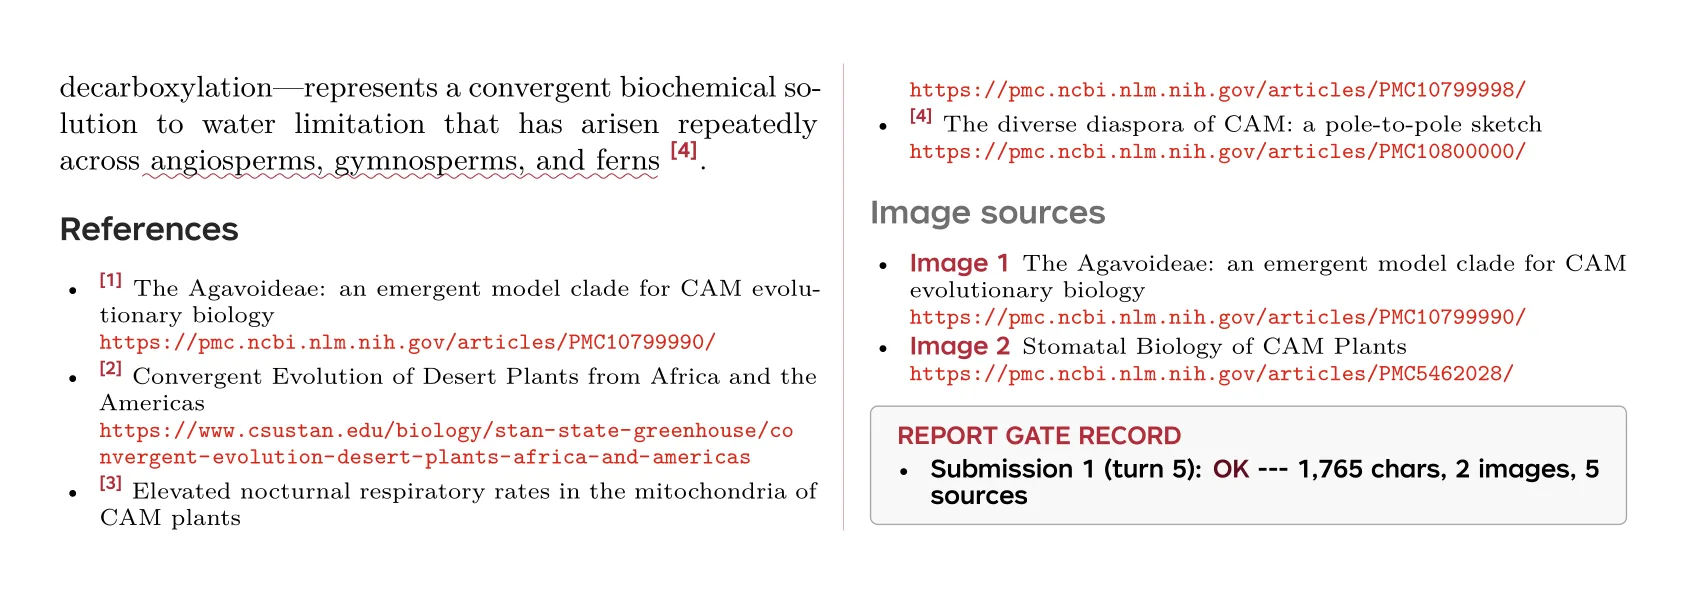
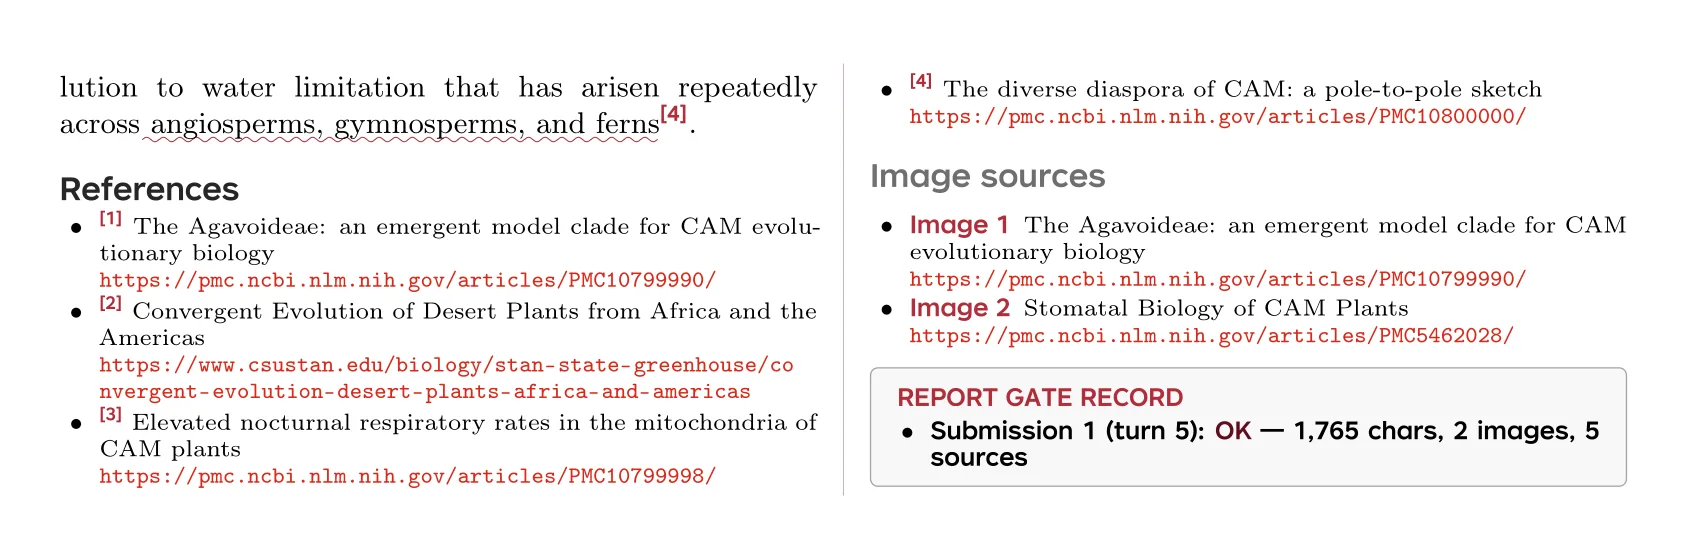
Refresh report pages from the final paper; build with pdfLaTeX
Re-export against the final sources (paper fonts, image heights, dashes, citations).
The export now uses pdfLaTeX like the paper, ragged columns, and content-hashed
image URLs so browsers pick up changed pages.

Changed region(s): [[0.0308, 0.1221, 0.4923, 0.8851], [0.4923, 0.3052, 0.9846, 0.8851], [0.5231, 0.1221, 0.9231, 0.2747]]

diff --git a/assets/reports/manifest.js b/assets/reports/manifest.js
@@ -1,85 +1,90 @@
 window.MIRA_REPORTS = {
  "cam_concise": [
   {
-   "src": "assets/reports/cam_concise/01.webp",
+   "src": "assets/reports/cam_concise/01.webp?v=6a26c0a7",
    "w": 1700,
    "h": 2274
   },
   {
-   "src": "assets/reports/cam_concise/02.webp",
+   "src": "assets/reports/cam_concise/02.webp?v=e6f3c707",
    "w": 1690,
-   "h": 594
+   "h": 557
   }
  ],
  "cam_detail": [
   {
-   "src": "assets/reports/cam_detail/01.webp",
+   "src": "assets/reports/cam_detail/01.webp?v=7eaeee08",
    "w": 1700,
    "h": 2274
   },
   {
-   "src": "assets/reports/cam_detail/02.webp",
+   "src": "assets/reports/cam_detail/02.webp?v=7838786a",
    "w": 1700,
    "h": 2274
   },
   {
-   "src": "assets/reports/cam_detail/03.webp",
+   "src": "assets/reports/cam_detail/03.webp?v=85b3da55",
    "w": 1700,
    "h": 2274
   },
   {
-   "src": "assets/reports/cam_detail/04.webp",
-   "w": 1700,
-   "h": 2287
-  },
-  {
-   "src": "assets/reports/cam_detail/05.webp",
+   "src": "assets/reports/cam_detail/04.webp?v=13ad7c21",
    "w": 1700,
    "h": 2274
   },
   {
-   "src": "assets/reports/cam_detail/06.webp",
+   "src": "assets/reports/cam_detail/05.webp?v=ef536b20",
+   "w": 1697,
+   "h": 2274
+  },
+  {
+   "src": "assets/reports/cam_detail/06.webp?v=d8a0a468",
    "w": 1694,
-   "h": 1057
+   "h": 740
   }
  ],
  "concrete_concise": [
   {
-   "src": "assets/reports/concrete_concise/01.webp",
-   "w": 1700,
+   "src": "assets/reports/concrete_concise/01.webp?v=7da7a193",
+   "w": 1697,
    "h": 2274
   },
   {
-   "src": "assets/reports/concrete_concise/02.webp",
+   "src": "assets/reports/concrete_concise/02.webp?v=e43f1809",
    "w": 1694,
-   "h": 1034
+   "h": 1234
   }
  ],
  "concrete_detail": [
   {
-   "src": "assets/reports/concrete_detail/01.webp",
+   "src": "assets/reports/concrete_detail/01.webp?v=1a078fa8",
    "w": 1697,
    "h": 2274
   },
   {
-   "src": "assets/reports/concrete_detail/02.webp",
+   "src": "assets/reports/concrete_detail/02.webp?v=cc023cde",
+   "w": 1697,
+   "h": 2280
+  },
+  {
+   "src": "assets/reports/concrete_detail/03.webp?v=dd94f7eb",
+   "w": 1700,
+   "h": 2274
+  },
+  {
+   "src": "assets/reports/concrete_detail/04.webp?v=786e30cb",
    "w": 1697,
    "h": 2274
   },
   {
-   "src": "assets/reports/concrete_detail/03.webp",
+   "src": "assets/reports/concrete_detail/05.webp?v=1319b3aa",
    "w": 1700,
-   "h": 2287
+   "h": 2274
   },
   {
-   "src": "assets/reports/concrete_detail/04.webp",
-   "w": 1700,
-   "h": 2277
-  },
-  {
-   "src": "assets/reports/concrete_detail/05.webp",
-   "w": 1697,
-   "h": 2214
+   "src": "assets/reports/concrete_detail/06.webp?v=efe43891",
+   "w": 1694,
+   "h": 607
   }
  ]
 };

diff --git a/index.html b/index.html
@@ -8,9 +8,9 @@
 <meta name="color-scheme" content="light dark">
 <link rel="icon" type="image/png" sizes="512x512" href="assets/joyagent_mira_logo_512.png">
 <link rel="apple-touch-icon" href="assets/joyagent_mira_logo_512.png">
-<link rel="stylesheet" href="assets/css/style.css?v=20261019e">
-<script src="assets/reports/manifest.js?v=20261019c" defer></script>
-<script src="assets/js/main.js?v=20261019d" defer></script>
+<link rel="stylesheet" href="assets/css/style.css?v=20261019f">
+<script src="assets/reports/manifest.js?v=20261019f" defer></script>
+<script src="assets/js/main.js?v=20261019f" defer></script>
 </head>
 <body>
 
